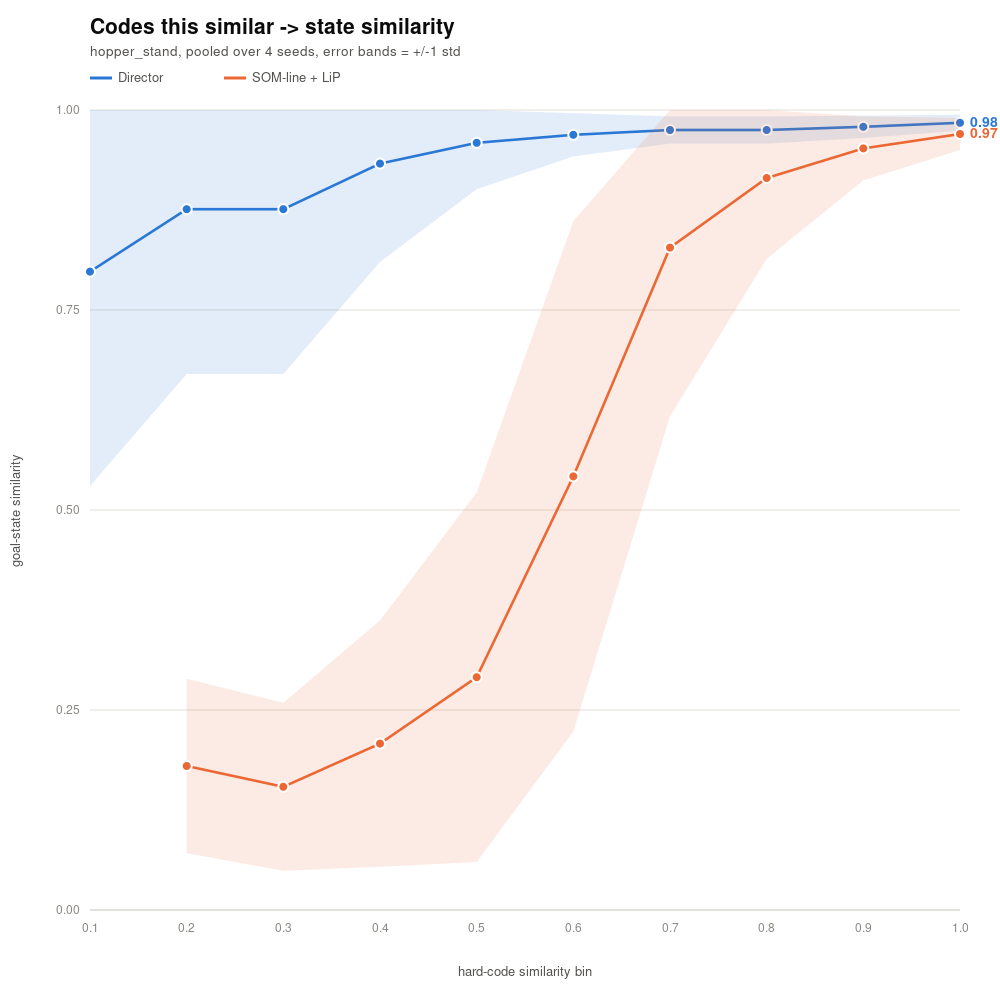
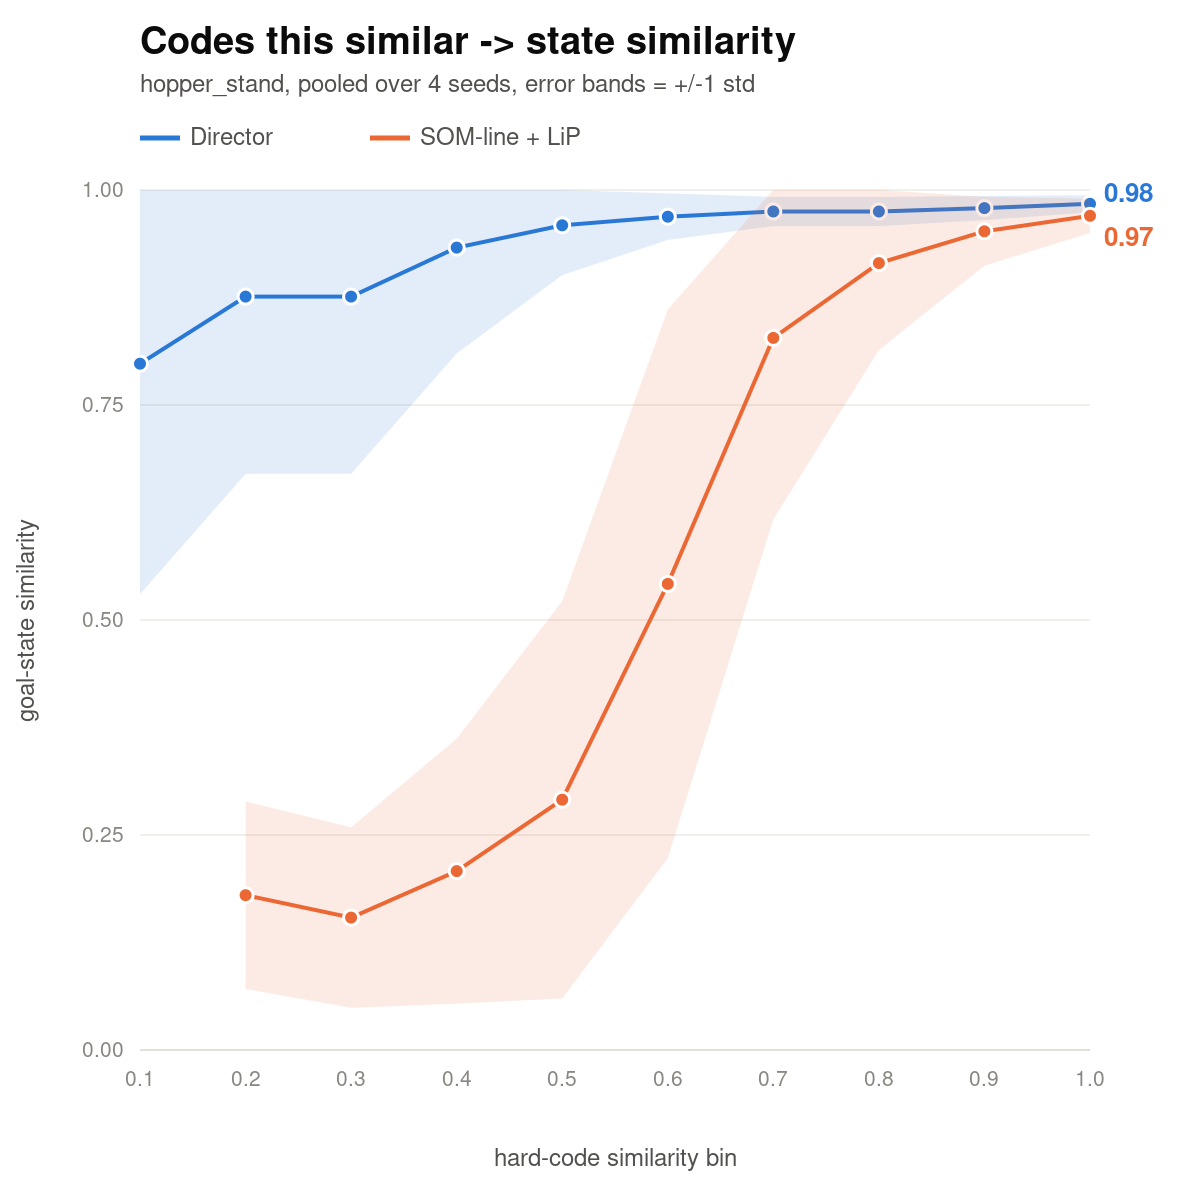
Larger fonts + director-only variants for the state/code similarity plots
Canvas grown 1000->1200 and every text element roughly doubled (title 21->38,
ticks 12->21, end-labels 14->26 with a vertical nudge so the two converging
end-labels in the codes->state chart don't overlap) since the previous size
was hard to read at a glance. Right padding widened so the larger bold
end-labels don't clip off the canvas edge.

Also added two single-series (Director only) variants of both charts --
build() now takes a `keys` param and skips the legend box for a single
series per the one-series-no-legend rule.

diff --git a/experiments/goal_geometry/plot_state_code_similarity.py b/experiments/goal_geometry/plot_state_code_similarity.py
@@ -32,8 +32,8 @@ DATA2 = {  # hard-code sim bin -> state-sim
 COLOR = {'director': '#2a78d6', 'somlip': '#eb6834'}
 NAME = {'director': 'Director', 'somlip': 'SOM-line + LiP'}
 
-S = 1000  # square canvas
-PAD_L, PAD_R, PAD_T, PAD_B = 90, 40, 110, 90
+S = 1200  # square canvas
+PAD_L, PAD_R, PAD_T, PAD_B = 140, 110, 190, 150
 PLOT = S - PAD_L - PAD_R  # also used for height since square interior
 
 
@@ -41,7 +41,7 @@ def esc(s):
   return s.replace('&', '&amp;').replace('<', '&lt;').replace('>', '&gt;')
 
 
-def build(data, title, sub, x_label, y_label, out_base):
+def build(data, title, sub, x_label, y_label, out_base, keys=('director', 'somlip')):
   plot_h = S - PAD_T - PAD_B
 
   def sx(i):
@@ -54,20 +54,22 @@ def build(data, title, sub, x_label, y_label, out_base):
          f'viewBox="0 0 {S} {S}" font-family="Helvetica,Arial,sans-serif">',
          f'<rect x="0" y="0" width="{S}" height="{S}" fill="white"/>']
 
-  svg.append(f'<text x="{PAD_L}" y="34" font-size="21" font-weight="bold" '
+  svg.append(f'<text x="{PAD_L}" y="54" font-size="38" font-weight="bold" '
              f'fill="#0b0b0b">{esc(title)}</text>')
-  svg.append(f'<text x="{PAD_L}" y="56" font-size="13.5" fill="#52514e">'
+  svg.append(f'<text x="{PAD_L}" y="92" font-size="24" fill="#52514e">'
              f'{esc(sub)}</text>')
 
-  # legend
-  ly = 82
-  lx = PAD_L
-  for key in ('director', 'somlip'):
-    svg.append(f'<line x1="{lx}" y1="{ly - 4}" x2="{lx + 22}" y2="{ly - 4}" '
-               f'stroke="{COLOR[key]}" stroke-width="3"/>')
-    svg.append(f'<text x="{lx + 28}" y="{ly}" font-size="13" fill="#52514e">'
-               f'{esc(NAME[key])}</text>')
-    lx += 28 + 9 * len(NAME[key]) + 34
+  # legend -- skipped for a single series (its color is unambiguous from the
+  # title/subtitle alone, per the one-series-no-legend-box rule)
+  if len(keys) > 1:
+    ly = 145
+    lx = PAD_L
+    for key in keys:
+      svg.append(f'<line x1="{lx}" y1="{ly - 7}" x2="{lx + 40}" y2="{ly - 7}" '
+                 f'stroke="{COLOR[key]}" stroke-width="5"/>')
+      svg.append(f'<text x="{lx + 50}" y="{ly}" font-size="24" fill="#52514e">'
+                 f'{esc(NAME[key])}</text>')
+      lx += 50 + 15 * len(NAME[key]) + 60
 
   # gridlines + y ticks
   for v in (0.0, 0.25, 0.5, 0.75, 1.0):
@@ -75,22 +77,22 @@ def build(data, title, sub, x_label, y_label, out_base):
     stroke = '#c3c2b7' if v == 0 else '#e1e0d9'
     svg.append(f'<line x1="{PAD_L}" y1="{y:.1f}" x2="{S - PAD_R}" y2="{y:.1f}" '
                f'stroke="{stroke}" stroke-width="1"/>')
-    svg.append(f'<text x="{PAD_L - 10}" y="{y + 4:.1f}" font-size="12" '
+    svg.append(f'<text x="{PAD_L - 16}" y="{y + 7:.1f}" font-size="21" '
                f'text-anchor="end" fill="#898781">{v:.2f}</text>')
 
   # x ticks
   for i, t in enumerate(TARGETS):
     x = sx(i)
-    svg.append(f'<text x="{x:.1f}" y="{S - PAD_B + 22:.1f}" font-size="12" '
+    svg.append(f'<text x="{x:.1f}" y="{S - PAD_B + 36:.1f}" font-size="21" '
                f'text-anchor="middle" fill="#898781">{t:.1f}</text>')
-  svg.append(f'<text x="{PAD_L + PLOT / 2:.1f}" y="{S - 24}" font-size="13" '
+  svg.append(f'<text x="{PAD_L + PLOT / 2:.1f}" y="{S - 34}" font-size="24" '
              f'text-anchor="middle" fill="#52514e">{esc(x_label)}</text>')
-  svg.append(f'<text x="20" y="{PAD_T + plot_h / 2:.1f}" font-size="13" '
+  svg.append(f'<text x="34" y="{PAD_T + plot_h / 2:.1f}" font-size="24" '
              f'text-anchor="middle" fill="#52514e" '
-             f'transform="rotate(-90 20 {PAD_T + plot_h / 2:.1f})">'
+             f'transform="rotate(-90 34 {PAD_T + plot_h / 2:.1f})">'
              f'{esc(y_label)}</text>')
 
-  for key in ('director', 'somlip'):
+  for key in keys:
     d = data[key]
     color = COLOR[key]
     segs, cur = [], []
@@ -112,33 +114,49 @@ def build(data, title, sub, x_label, y_label, out_base):
                  f'stroke="none"/>')
       line_pts = ' '.join(f'{sx(i):.1f},{sy(d["mean"][i]):.1f}' for i in seg)
       svg.append(f'<polyline points="{line_pts}" fill="none" stroke="{color}" '
-                 f'stroke-width="2.6" stroke-linejoin="round" '
+                 f'stroke-width="4" stroke-linejoin="round" '
                  f'stroke-linecap="round"/>')
     for i, m in enumerate(d['mean']):
       if m is None:
         continue
-      svg.append(f'<circle cx="{sx(i):.1f}" cy="{sy(m):.1f}" r="5" '
-                 f'fill="{color}" stroke="white" stroke-width="2"/>')
+      svg.append(f'<circle cx="{sx(i):.1f}" cy="{sy(m):.1f}" r="7.5" '
+                 f'fill="{color}" stroke="white" stroke-width="3"/>')
     last = max(i for i, m in enumerate(d['mean']) if m is not None)
-    svg.append(f'<text x="{sx(last) + 10:.1f}" y="{sy(d["mean"][last]) + 4:.1f}" '
-               f'font-size="14" font-weight="bold" fill="{color}">'
+    # nudge the two end labels apart vertically so close-converging curves
+    # (both arms end near 1.0 in the codes->state chart) don't overlap
+    nudge = -10 if key == 'director' else 22
+    svg.append(f'<text x="{sx(last) + 14:.1f}" '
+               f'y="{sy(d["mean"][last]) + 8 + nudge:.1f}" '
+               f'font-size="26" font-weight="bold" fill="{color}">'
                f'{d["mean"][last]:.2f}</text>')
 
   svg.append('</svg>')
   base = pathlib.Path(out_base)
   base.with_suffix('.svg').write_text('\n'.join(svg))
-  subprocess.run(['rsvg-convert', '-f', 'png', '-w', '1000', '-h', '1000',
+  subprocess.run(['rsvg-convert', '-f', 'png', '-w', str(S), '-h', str(S),
                   '-o', str(base.with_suffix('.png')), str(base.with_suffix('.svg'))],
                  check=True)
   print('wrote', base.with_suffix('.png'))
 
 
+HERE = pathlib.Path(__file__).resolve().parent
+
 build(DATA1, 'States this similar -> code similarity',
       'hopper_stand, pooled over 4 seeds, error bands = +/-1 std',
       'goal-state similarity bin', 'soft-code similarity',
-      '/home/g/george-vasilache/.claude/jobs/9dc8f8d0/tmp/state_to_code_sim')
+      str(HERE / 'state_to_code_sim'))
 
 build(DATA2, 'Codes this similar -> state similarity',
       'hopper_stand, pooled over 4 seeds, error bands = +/-1 std',
       'hard-code similarity bin', 'goal-state similarity',
-      '/home/g/george-vasilache/.claude/jobs/9dc8f8d0/tmp/code_to_state_sim')
+      str(HERE / 'code_to_state_sim'))
+
+build(DATA1, 'States this similar -> code similarity (Director)',
+      'hopper_stand, pooled over 4 seeds, error band = +/-1 std',
+      'goal-state similarity bin', 'soft-code similarity',
+      str(HERE / 'state_to_code_sim_director_only'), keys=('director',))
+
+build(DATA2, 'Codes this similar -> state similarity (Director)',
+      'hopper_stand, pooled over 4 seeds, error band = +/-1 std',
+      'hard-code similarity bin', 'goal-state similarity',
+      str(HERE / 'code_to_state_sim_director_only'), keys=('director',))
